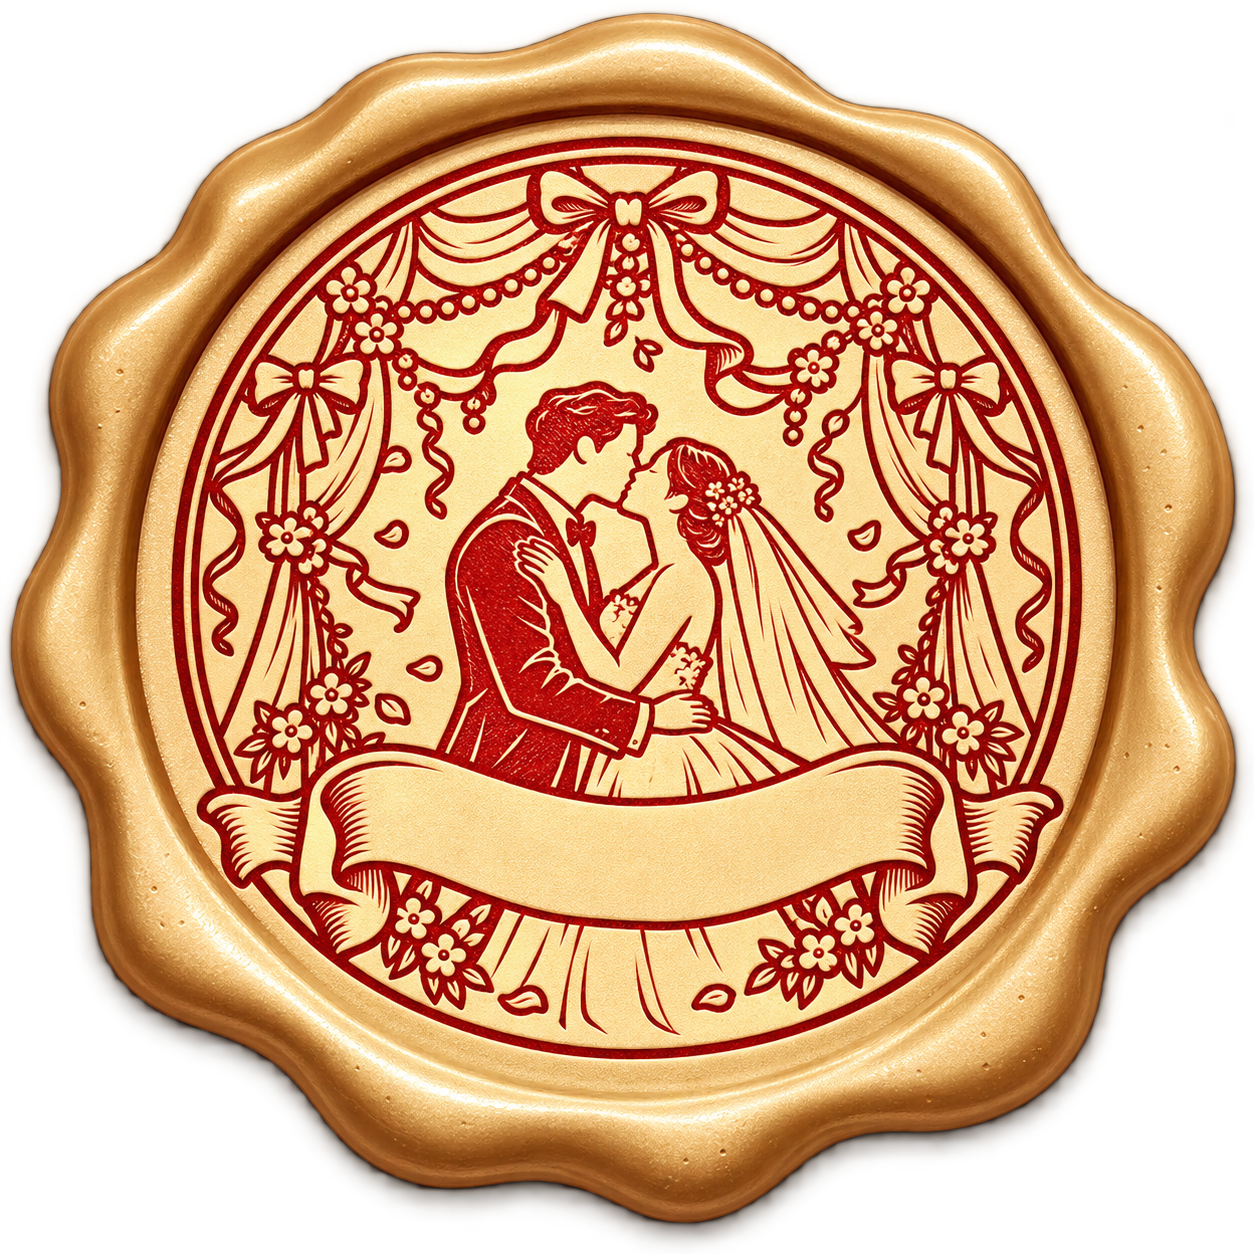
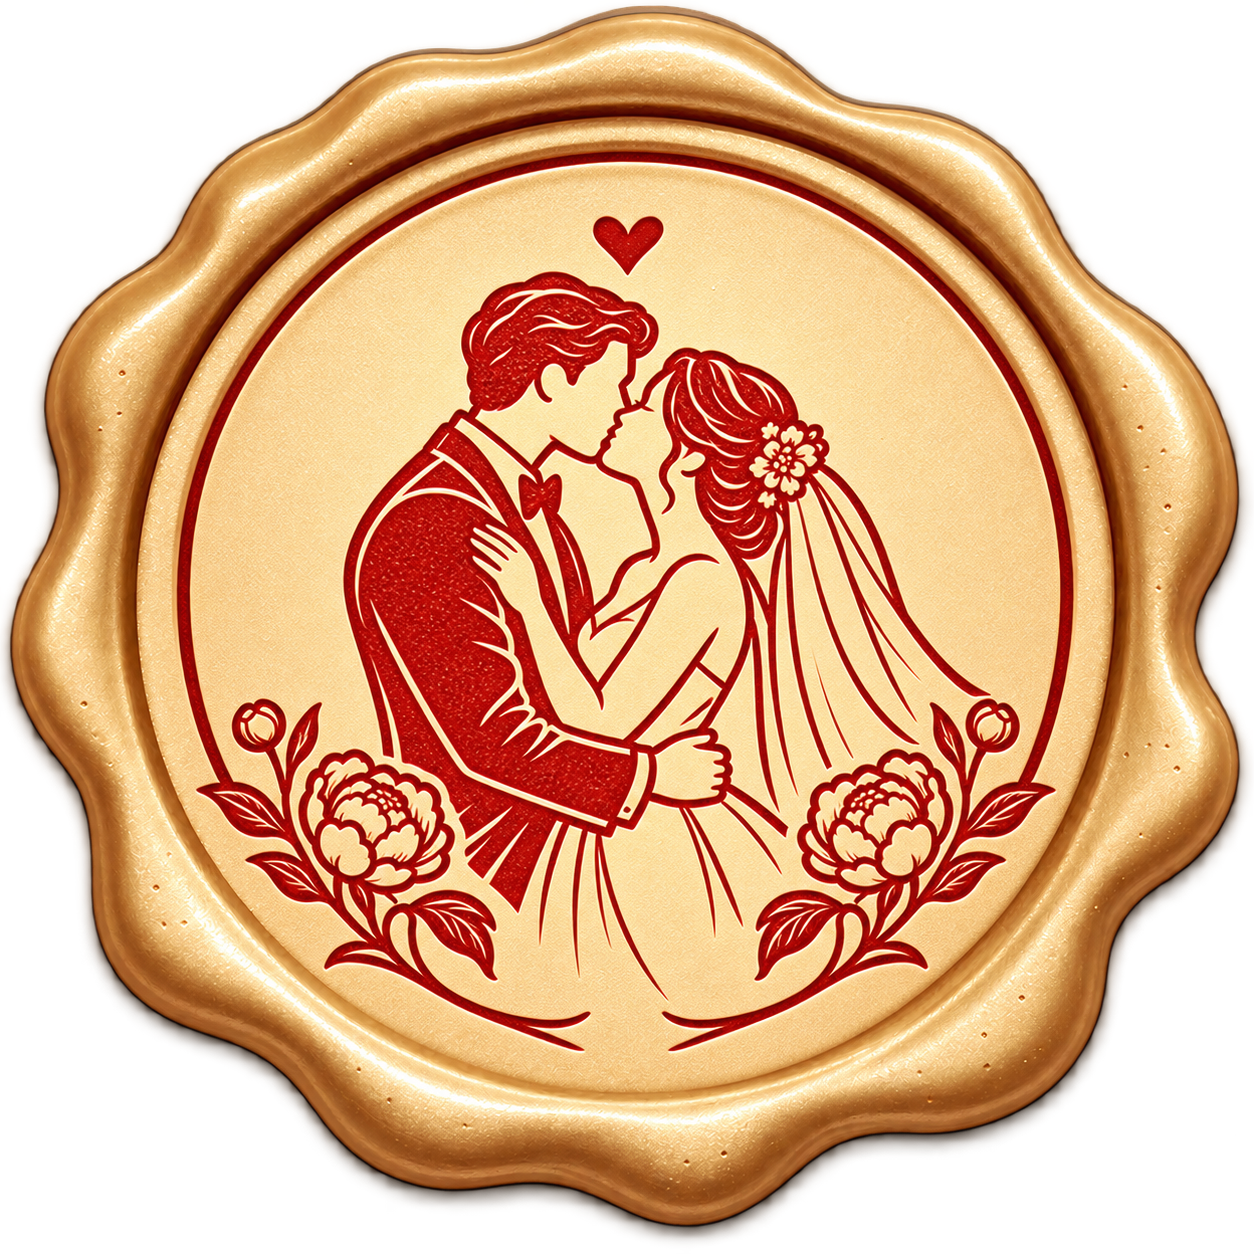
v0.9.1｜金紋流光・白幕啟封

diff --git a/app/globals.css b/app/globals.css
@@ -1954,7 +1954,7 @@ html { -webkit-text-size-adjust: 100%; text-size-adjust: 100%; }
   display: grid;
   place-items: center;
   overflow: hidden;
-  padding: max(18px, env(safe-area-inset-top)) max(18px, env(safe-area-inset-right)) max(18px, env(safe-area-inset-bottom)) max(18px, env(safe-area-inset-left));
+  padding: 0;
   color: #f5dfad;
   background:
     radial-gradient(circle at 50% 46%, rgba(155,47,37,.28), transparent 42%),
@@ -1985,34 +1985,21 @@ html { -webkit-text-size-adjust: 100%; text-size-adjust: 100%; }
 }
 .envelope-scene {
   position: relative;
-  width: min(92vw, 560px);
-  height: min(91dvh, 840px);
+  width: 100vw;
+  height: 100dvh;
   perspective: 1500px;
-  filter: drop-shadow(0 28px 36px rgba(8,0,0,.52));
 }
 .envelope-card {
+  --envelope-art: url("../public/envelope-embossed.png");
+  --envelope-gold-art: url("../public/envelope-embossed-gold.png");
   position: absolute;
   inset: 0;
   overflow: hidden;
-  border: 1px solid rgba(245,194,107,.44);
-  border-radius: 4px;
-  background: #6f1112 url("../public/envelope-embossed.png") center/cover no-repeat;
-  box-shadow: inset 0 0 0 1px rgba(255,235,186,.13), inset 0 0 65px rgba(25,0,2,.45);
+  border: 0;
+  background: #6f1112 var(--envelope-art) center/cover no-repeat;
+  box-shadow: inset 0 0 65px rgba(25,0,2,.34);
   transform-style: preserve-3d;
   will-change: transform, opacity, filter;
-}
-.envelope-card::before {
-  content: "";
-  position: absolute;
-  z-index: 4;
-  inset: 0;
-  pointer-events: none;
-  background:
-    linear-gradient(33deg, transparent 49.72%, rgba(246,203,117,.82) 49.9% 50.08%, transparent 50.28%) left bottom/50% 50% no-repeat,
-    linear-gradient(-33deg, transparent 49.72%, rgba(246,203,117,.82) 49.9% 50.08%, transparent 50.28%) right bottom/50% 50% no-repeat,
-    linear-gradient(56deg, transparent 49.72%, rgba(246,203,117,.72) 49.9% 50.08%, transparent 50.28%) left top/50% 50% no-repeat,
-    linear-gradient(-56deg, transparent 49.72%, rgba(246,203,117,.72) 49.9% 50.08%, transparent 50.28%) right top/50% 50% no-repeat;
-  opacity: .74;
 }
 .envelope-inner-glow {
   position: absolute;
@@ -2050,10 +2037,21 @@ html { -webkit-text-size-adjust: 100%; text-size-adjust: 100%; }
   z-index: 3;
   inset: -1px;
   pointer-events: none;
-  background: #781718 url("../public/envelope-embossed.png") center/cover no-repeat;
+  overflow: hidden;
+  background: #781718 var(--envelope-art) center/cover no-repeat;
   transform-style: preserve-3d;
   backface-visibility: hidden;
   will-change: transform, opacity;
+}
+.envelope-flap::after {
+  content: "";
+  position: absolute;
+  inset: 0;
+  opacity: 0;
+  clip-path: circle(0 at 50% 50%);
+  background: var(--envelope-gold-art) center/cover no-repeat;
+  filter: drop-shadow(0 0 8px rgba(255,205,96,.38));
+  will-change: clip-path, opacity;
 }
 .envelope-flap-left { clip-path: polygon(0 0, 50.3% 50%, 0 100%); transform-origin: left center; }
 .envelope-flap-right { clip-path: polygon(100% 0, 49.7% 50%, 100% 100%); transform-origin: right center; }
@@ -2062,18 +2060,21 @@ html { -webkit-text-size-adjust: 100%; text-size-adjust: 100%; }
   z-index: 5;
   clip-path: polygon(0 0, 100% 0, 50% 50%);
   transform-origin: 50% 0;
-  background-image: linear-gradient(rgba(122,27,27,.08), rgba(50,4,7,.12)), url("../public/envelope-embossed.png");
+  background-image: linear-gradient(rgba(122,27,27,.08), rgba(50,4,7,.12)), var(--envelope-art);
 }
 .envelope-pattern-light {
   position: absolute;
-  z-index: 6;
-  inset: 0;
+  z-index: 7;
+  left: 50%;
+  top: 50%;
+  width: min(34vmin, 280px);
+  aspect-ratio: 1;
+  border-radius: 50%;
   opacity: 0;
   pointer-events: none;
-  clip-path: circle(0 at 50% 50%);
-  background: url("../public/envelope-embossed.png") center/cover no-repeat;
-  filter: brightness(2.25) saturate(.72) sepia(.16);
-  mix-blend-mode: screen;
+  background: radial-gradient(circle, rgba(255,252,224,.9) 0 2%, rgba(255,205,86,.5) 16%, rgba(255,171,46,.16) 42%, transparent 70%);
+  filter: blur(5px);
+  transform: translate(-50%,-50%) scale(.2);
 }
 .envelope-seal {
   position: absolute;
@@ -2087,15 +2088,20 @@ html { -webkit-text-size-adjust: 100%; text-size-adjust: 100%; }
   will-change: transform, filter, opacity;
 }
 .envelope-seal img { display: block; width: 100%; height: 100%; object-fit: contain; }
-.envelope-seal span {
+.envelope-white-flash {
   position: absolute;
+  z-index: 30;
   left: 50%;
-  top: 70.3%;
-  color: #a20c11;
-  font: italic 600 clamp(11px, 2.1vw, 17px)/1 "Brush Script MT", "Segoe Script", cursive;
-  letter-spacing: .02em;
-  text-shadow: 0 1px rgba(255,234,177,.42);
-  transform: translate(-50%, -50%) rotate(-1deg);
+  top: 50%;
+  width: 18vmax;
+  aspect-ratio: 1;
+  border-radius: 50%;
+  opacity: 0;
+  pointer-events: none;
+  background: radial-gradient(circle, #fff 0 34%, rgba(255,255,255,.98) 50%, rgba(255,248,218,.82) 67%, transparent 75%);
+  filter: blur(13px);
+  transform: translate(-50%,-50%) scale(.08);
+  will-change: transform, opacity;
 }
 .envelope-intro-copy {
   position: absolute;
@@ -2126,29 +2132,37 @@ html { -webkit-text-size-adjust: 100%; text-size-adjust: 100%; }
 .envelope-intro-copy span::after { transform: scaleX(-1); }
 
 .envelope-cover.is-opening { cursor: default; }
-.envelope-cover.is-opening .envelope-pattern-light { animation: envelope-pattern-bloom 1.45s cubic-bezier(.22,.75,.26,1) forwards; }
-.envelope-cover.is-opening .envelope-seal { animation: envelope-seal-release 2.45s ease-in-out forwards; }
-.envelope-cover.is-opening .envelope-inner-glow { animation: envelope-inner-appear 1.35s 2.05s ease-out forwards; }
-.envelope-cover.is-opening .envelope-flap-top { animation: envelope-lid-open 1.25s 2.2s cubic-bezier(.45,.02,.18,1) forwards; }
+.envelope-cover.is-opening .envelope-flap::after { animation: envelope-gold-spread 2.45s cubic-bezier(.18,.68,.22,1) forwards; }
+.envelope-cover.is-opening .envelope-pattern-light { animation: envelope-pattern-bloom 2.45s cubic-bezier(.18,.68,.22,1) forwards; }
+.envelope-cover.is-opening .envelope-seal { animation: envelope-seal-release 3.25s ease-in-out forwards; }
+.envelope-cover.is-opening .envelope-inner-glow { animation: envelope-inner-appear 1.25s 2.35s ease-out forwards; }
+.envelope-cover.is-opening .envelope-flap-top { animation: envelope-lid-open 1.2s 2.45s cubic-bezier(.45,.02,.18,1) forwards; }
 .envelope-cover.is-opening .envelope-flap-left { animation: envelope-left-open 1.05s 3.05s cubic-bezier(.45,.02,.18,1) forwards; }
 .envelope-cover.is-opening .envelope-flap-right { animation: envelope-right-open 1.05s 3.05s cubic-bezier(.45,.02,.18,1) forwards; }
 .envelope-cover.is-opening .envelope-flap-bottom { animation: envelope-bottom-open 1.05s 3.08s cubic-bezier(.45,.02,.18,1) forwards; }
-.envelope-cover.is-opening .envelope-card { animation: envelope-card-away 1.15s 4.08s cubic-bezier(.5,0,.7,1) forwards; }
+.envelope-cover.is-opening .envelope-card { animation: envelope-card-away 1.15s 4.05s cubic-bezier(.5,0,.7,1) forwards; }
+.envelope-cover.is-opening .envelope-white-flash { animation: envelope-white-burst 2.05s 3.25s cubic-bezier(.2,.62,.2,1) forwards; }
 .envelope-cover.is-opening .envelope-intro-copy { animation: envelope-copy-away .45s ease forwards; }
-.envelope-cover.is-opening .envelope-halo { animation: envelope-room-flash 5.15s ease forwards; }
-.envelope-cover.is-opening { animation: envelope-cover-away .95s 4.25s ease forwards; }
+.envelope-cover.is-opening .envelope-halo { animation: envelope-room-flash 5.25s ease forwards; }
+.envelope-cover.is-opening { animation: envelope-cover-away 1s 4.35s ease forwards; }
 
 @keyframes envelope-tap-breathe { 0%,100% { opacity: .55; transform: translateY(0); } 50% { opacity: 1; transform: translateY(-3px); } }
-@keyframes envelope-pattern-bloom {
+@keyframes envelope-gold-spread {
   0% { opacity: 0; clip-path: circle(0 at 50% 50%); }
-  12% { opacity: .92; }
-  72% { opacity: .8; clip-path: circle(72% at 50% 50%); }
-  100% { opacity: 0; clip-path: circle(90% at 50% 50%); }
+  10% { opacity: .18; }
+  72% { opacity: 1; }
+  100% { opacity: 1; clip-path: circle(92% at 50% 50%); }
+}
+@keyframes envelope-pattern-bloom {
+  0% { opacity: 0; transform: translate(-50%,-50%) scale(.15); }
+  22% { opacity: .75; }
+  70% { opacity: .38; }
+  100% { opacity: 0; transform: translate(-50%,-50%) scale(4.4); }
 }
 @keyframes envelope-seal-release {
-  0%,42% { transform: translate(-50%,-50%) scale(1); filter: drop-shadow(0 10px 10px rgba(24,0,0,.55)); opacity: 1; }
-  55% { transform: translate(-50%,-50%) scale(1.07); filter: drop-shadow(0 0 10px #fff2b3) drop-shadow(0 0 31px #ffbf36); }
-  70% { transform: translate(-50%,-50%) scale(1); filter: drop-shadow(0 8px 11px rgba(24,0,0,.5)); opacity: 1; }
+  0%,61% { transform: translate(-50%,-50%) scale(1); filter: drop-shadow(0 10px 10px rgba(24,0,0,.55)); opacity: 1; }
+  72% { transform: translate(-50%,-50%) scale(1.08); filter: drop-shadow(0 0 12px #fff) drop-shadow(0 0 38px #ffc139); }
+  84% { transform: translate(-50%,-50%) scale(1); filter: drop-shadow(0 0 26px rgba(255,216,111,.9)); opacity: 1; }
   100% { transform: translate(-50%,-50%) scale(.86); filter: drop-shadow(0 0 28px rgba(255,213,105,.8)); opacity: 0; }
 }
 @keyframes envelope-inner-appear { from { opacity: 0; } to { opacity: 1; } }
@@ -2159,19 +2173,22 @@ html { -webkit-text-size-adjust: 100%; text-size-adjust: 100%; }
 @keyframes envelope-copy-away { to { opacity: 0; transform: translate(-50%,10px); } }
 @keyframes envelope-card-away { 0% { transform: scale(1); opacity: 1; filter: brightness(1); } 56% { transform: scale(1.025); opacity: .9; filter: brightness(1.35); } 100% { transform: scale(1.09); opacity: 0; filter: brightness(1.8); } }
 @keyframes envelope-room-flash { 0%,25% { opacity: .55; transform: scale(.75); } 58% { opacity: 1; transform: scale(1.2); } 100% { opacity: 0; transform: scale(1.75); } }
+@keyframes envelope-white-burst {
+  0% { opacity: 0; transform: translate(-50%,-50%) scale(.08); }
+  14% { opacity: .92; }
+  58% { opacity: 1; transform: translate(-50%,-50%) scale(7.8); }
+  80% { opacity: 1; transform: translate(-50%,-50%) scale(12); }
+  100% { opacity: 0; transform: translate(-50%,-50%) scale(14); }
+}
 @keyframes envelope-cover-away { 0% { opacity: 1; background-color: transparent; } 100% { opacity: 0; visibility: hidden; background-color: rgba(255,241,202,.25); } }
 
 @media (min-width: 761px) {
-  .envelope-scene { height: min(90dvh, 850px); width: min(60vw, 566px); }
-  .envelope-cover::after {
-    content: "";
-    position: absolute;
-    z-index: -1;
-    width: min(74vw, 990px);
-    height: min(92dvh, 870px);
-    border: 1px solid rgba(224,179,95,.2);
-    box-shadow: inset 0 0 90px rgba(214,123,57,.08);
+  .envelope-card {
+    --envelope-art: url("../public/envelope-embossed-landscape.png");
+    --envelope-gold-art: url("../public/envelope-embossed-landscape-gold.png");
   }
+  .envelope-seal { width: clamp(148px, 14vw, 210px); }
+  .envelope-intro-copy { bottom: max(26px, 4.5vh); }
 }
 @media (max-width: 760px) {
   .envelope-cover { padding: 0; background: #3c080a; }
@@ -2183,7 +2200,6 @@ html { -webkit-text-size-adjust: 100%; text-size-adjust: 100%; }
   .envelope-intro-copy span { font-size: 10px; }
 }
 @media (max-height: 570px) and (orientation: landscape) {
-  .envelope-scene { width: min(51vh, 430px); height: 92dvh; }
   .envelope-intro-copy { bottom: 14px; }
   .envelope-intro-copy small { display: none; }
   .envelope-intro-copy p { font-size: 20px; }
@@ -2194,7 +2210,9 @@ html { -webkit-text-size-adjust: 100%; text-size-adjust: 100%; }
   .envelope-cover.is-opening { animation: envelope-cover-away .35s .1s ease forwards; }
   .envelope-cover.is-opening .envelope-card { animation: envelope-card-away .35s .1s ease forwards; }
   .envelope-cover.is-opening .envelope-flap,
+  .envelope-cover.is-opening .envelope-flap::after,
   .envelope-cover.is-opening .envelope-pattern-light,
   .envelope-cover.is-opening .envelope-seal,
-  .envelope-cover.is-opening .envelope-inner-glow { animation: none; }
+  .envelope-cover.is-opening .envelope-inner-glow,
+  .envelope-cover.is-opening .envelope-white-flash { animation: none; }
 }

diff --git a/app/page.tsx b/app/page.tsx
@@ -21,7 +21,7 @@ const aboutStory = [
 const clamp = (value: number, min: number, max: number) => Math.min(Math.max(value, min), max);
 const MOBILE_DETAIL_SCROLL_WAIT = 1000;
 const MUSIC_VOLUME = 0.24;
-const ENVELOPE_OPEN_DURATION = 5200;
+const ENVELOPE_OPEN_DURATION = 5400;
 
 function EnvelopeCover({ onFinished }: { onFinished: () => void }) {
   const [opening, setOpening] = useState(false);
@@ -65,7 +65,6 @@ function EnvelopeCover({ onFinished }: { onFinished: () => void }) {
           <div className="envelope-pattern-light" />
           <div className="envelope-seal">
             <img src="wedding-wax-seal.png" alt="" />
-            <span>Wedding</span>
           </div>
         </div>
         <div className="envelope-intro-copy">
@@ -74,6 +73,7 @@ function EnvelopeCover({ onFinished }: { onFinished: () => void }) {
           <span>輕觸任一處・展開喜帖</span>
         </div>
       </div>
+      <div className="envelope-white-flash" aria-hidden="true" />
     </section>
   );
 }

diff --git a/README.md b/README.md
@@ -1,6 +1,6 @@
 # 互動式數位喜帖
 
-目前版次：**v0.9.0｜金印啟封・紅箋序章**
+目前版次：**v0.9.1｜金紋流光・白幕啟封**
 
 直式滾動的婚禮喜帖網站，目前包含三個全螢幕章節：上下滑動會優雅吸附到下一章，拖拉或點擊狗狗緞帶即可展開完整內容。
 
@@ -16,7 +16,7 @@
 - 第三章採冷灰藍酒店導視風格，包含路線圖、地圖、聯絡資訊與四種交通切換
 - 行動裝置依瀏覽器實際可見範圍等比例縮放，不受網址列壓縮裁切
 - 浪漫鋼琴背景音樂會在第一次互動後柔和淡入，並提供跨頁固定的播放／暫停按鈕
-- 首次進入會呈現酒紅色立體壓花信封；輕觸任一處後，依序播放紋樣發光、金色新人接吻婚禮蠟印二次亮起、翻開信封與內頁淡入
+- 首次進入會呈現滿版酒紅色立體壓花信封；輕觸後金色壓花會由中心慢慢向外擴散，再經蠟印強光、信封開啟與全畫面白光進入內頁
 
 ## 之後可替換
 

diff --git a/CHANGELOG.md b/CHANGELOG.md
@@ -1,5 +1,13 @@
 # 版次紀錄
 
+## v0.9.1｜金紋流光・白幕啟封
+
+- 依參考影片重整拆封時間軸：壓花由蠟印中心緩慢向外轉為金色，接著蠟印強光、信封翻開、中央白光滿版，最後白光退去呈現喜帖。
+- 移除信封上額外繪製的四條金色斜線，保留暗紅紙張本身的低調折痕。
+- 蠟印改為簡潔的接吻新人、頭紗、愛心與雙側牡丹線稿，移除 Wedding 文字、前景緞帶及繁複婚禮佈景。
+- 電腦版新增專屬 16:9 橫式信封與金色壓花圖層，真正鋪滿瀏覽器畫面；手機沿用直式構圖，但兩者共用同一套動畫程式與時間軸。
+- 金色壓花使用與暗紅信封一一對應的圖層隨圓形光波擴散，避免整張信封一起變亮。
+
 ## v0.9.0｜金印啟封・紅箋序章
 
 - 新增首次進入喜帖時的全螢幕酒紅信封封面，手機滿版、電腦版維持置中比例，既有三章內容不變。
